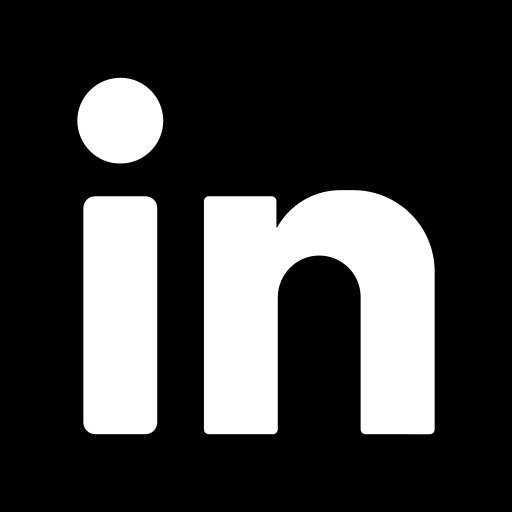
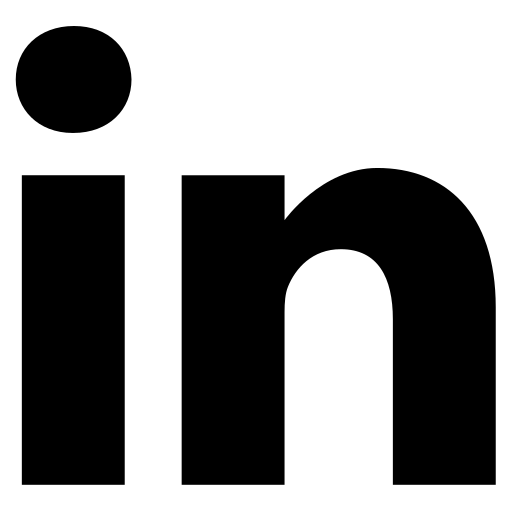
new timeline

diff --git a/src/App.js b/src/App.js
@@ -8,6 +8,7 @@ import {
 import "react-vertical-timeline-component/style.min.css";
 import { Navbar, NavItem, Nav, Button } from "react-bootstrap";
 import Table from "react-bootstrap/Table";
+import Tabs from "react-bootstrap/Tabs";
 import ProgressBar from "react-bootstrap/ProgressBar";
 
 function App() {
@@ -51,8 +52,7 @@ function App() {
 
               <h1>
                 My name is Cláudio and I'm an Outsystems Fullstack Developer
-                getting into the UX/UI environment, currently based in Lisbon,
-                Portugal.
+                with experience in UX/UI, currently based in Lisbon, Portugal.
               </h1>
               <h1>This is my website!</h1>
             </div>
@@ -71,17 +71,17 @@ function App() {
                 <p>
                   Graduated in <b>Computer Engineering</b> in 2017 and in the
                   process of finishing a Master's Degree in <b>Multimedia</b>.
-                  Designated by ISCTE as <b>ISTA Top Talent</b> in the 2018. I
-                  see myself as a
-                  <b>collaborative, easy to work with and efficient</b>{" "}
+                  Designated by ISCTE as <b>ISTA Top Talent</b> in 2018. I see
+                  myself as a
+                  <b> collaborative, easy to work with and efficient </b>
                   co-worker, who can get along very well and work in teams.
                   Always looking to
-                  <b>learn and improve</b> by absorving knowledge from everyone
+                  <b> learn and improve</b> by absorving knowledge from everyone
                   I get along with. Discovered the world of
-                  <b>User Experience</b> in the later days of my Bachelor's
-                  Degree and since then I've been aiming to enter into this
-                  universe. Always enjoyed{" "}
-                  <b>analysing the user and its interactions</b> in every
+                  <b> User Experience</b> in the later days of my Bachelor's
+                  Degree and since then I've been aiming to gain more experience
+                  in this universe. Always enjoyed
+                  <b> analysing the user and its interactions</b> in every
                   project I'm in. Currently employed as an Outsystems, Front-end
                   focused, Fullstack developer for CGI since March, 2019.
                 </p>
@@ -374,113 +374,136 @@ function App() {
                 <a className="anchor" id="work"></a>
                 <h2>Work</h2>
                 <p></p>
-
                 <div>
-                  <VerticalTimeline>
-                    <VerticalTimelineElement
-                      className="vertical-timeline-element--work"
-                      date="12/2019 - present"
-                    >
+                  <VerticalTimeline layout={"1-column"}>
+                    <VerticalTimelineElement className="vertical-timeline-element--work">
                       <h3 className="vertical-timeline-element-title">
-                        claudiolopes.pt : My own domain!
+                        Personal
                       </h3>
-                      <p>My personal domain with projects and information</p>
-                      <p>HTML, CSS, JavaScript, React</p>
-                      <p>Currently in development</p>
+                      <div className="subTimeline">
+                        <VerticalTimeline layout={"1-column"}>
+                          <VerticalTimelineElement
+                            className="vertical-timeline-element--work"
+                            date="12/2019 - present"
+                          >
+                            <h3 className="vertical-timeline-element-title">
+                              claudiolopes.pt : My own domain!
+                            </h3>
+                            <p>
+                              My personal domain with projects and information
+                            </p>
+                            <p>HTML, CSS, JavaScript, React</p>
+                            <p>Currently in development</p>
+                          </VerticalTimelineElement>
+                        </VerticalTimeline>
+                      </div>
                     </VerticalTimelineElement>
 
-                    <VerticalTimelineElement
-                      className="vertical-timeline-element--work"
-                      date="08/2019 - present"
-                    >
-                      <h3 className="vertical-timeline-element-title">
-                        Outsystems: EDPSU MerCom
-                      </h3>
-                      <h4 className="vertical-timeline-element-subtitle">
-                        CGI, Lisbon
-                      </h4>
-                      <p>
-                        Communication and case management for contact center
-                      </p>
-                      <p>Elitricity Market Values Manager</p>
-                      <p>Outsystems Service Studio, CSS, SQL</p>
-                      {/* A JSX comment 
-            <div>
-              <ModalCompnt ref={this.showModalRef}></ModalCompnt>
-              <a onClick={this.onShowModalClick}>Detalhes</a>
-            </div>*/}
+                    <VerticalTimelineElement className="vertical-timeline-element--work">
+                      <h3 className="vertical-timeline-element-title">CGI</h3>
+                      <div className="subTimeline">
+                        <VerticalTimeline layout={"1-column"}>
+                          <VerticalTimelineElement
+                            className="vertical-timeline-element--work"
+                            date="08/2019 - present"
+                          >
+                            <h3 className="vertical-timeline-element-title">
+                              Outsystems: EDPSU MerCom
+                            </h3>
+                            <h4 className="vertical-timeline-element-subtitle">
+                              CGI, Lisbon
+                            </h4>
+                            <p>
+                              Communication and case management for contact
+                              center
+                            </p>
+                            <p>Elitricity Market Values Manager</p>
+                            <p>Outsystems Service Studio, CSS, SQL</p>
+                          </VerticalTimelineElement>
+
+                          <VerticalTimelineElement
+                            className="vertical-timeline-element--work"
+                            date="04/2019 - 08/2019"
+                          >
+                            <h3 className="vertical-timeline-element-title">
+                              Outsystems: EDP Collect
+                            </h3>
+                            <h4 className="vertical-timeline-element-subtitle">
+                              CGI, Lisbon
+                            </h4>
+                            <p>Billing/payments manager</p>
+                            <p>Elitricity Market Values Manager</p>
+                            <p>Outsystems Service Studio, CSS, SQL</p>
+                          </VerticalTimelineElement>
+                        </VerticalTimeline>
+                      </div>
                     </VerticalTimelineElement>
 
-                    <VerticalTimelineElement
-                      className="vertical-timeline-element--work"
-                      date="04/2019 - 08/2019"
-                    >
+                    <VerticalTimelineElement className="vertical-timeline-element--work">
                       <h3 className="vertical-timeline-element-title">
-                        Outsystems: EDP Collect
+                        ISCTE-IUL
                       </h3>
-                      <h4 className="vertical-timeline-element-subtitle">
-                        CGI, Lisbon
-                      </h4>
-                      <p>Billing/payments manager</p>
-                      <p>Elitricity Market Values Manager</p>
-                      <p>Outsystems Service Studio, CSS, SQL</p>
-                    </VerticalTimelineElement>
+                      <div className="subTimeline">
+                        <VerticalTimeline layout={"1-column"}>
+                          <VerticalTimelineElement
+                            className="vertical-timeline-element--work"
+                            date="09/2018 - 12/2018"
+                          >
+                            <h3 className="vertical-timeline-element-title">
+                              Media Center Concept
+                            </h3>
+                            <h4 className="vertical-timeline-element-subtitle">
+                              ISCTE-IUL, Lisbon
+                            </h4>
+                            <p>3D Moddeling and printing </p>
+                            <p>Usabitlity testing</p>
+                            <p>User studying and targeting</p>
+                            <p>Low-Fy approach</p>
+                            <p>
+                              Solid Edge, Photoshop, Nielsen Heuristic, Adobe
+                              XD,{" "}
+                            </p>
+                          </VerticalTimelineElement>
 
-                    <VerticalTimelineElement
-                      className="vertical-timeline-element--work"
-                      date="09/2018 - 12/2018"
-                    >
-                      <h3 className="vertical-timeline-element-title">
-                        Media Center Concept
-                      </h3>
-                      <h4 className="vertical-timeline-element-subtitle">
-                        ISCTE-IUL, Lisbon
-                      </h4>
-                      <p>3D Moddeling and printing </p>
-                      <p>Usabitlity testing</p>
-                      <p>User studying and targeting</p>
-                      <p>Low-Fy approach</p>
-                      <p>
-                        Solid Edge, Photoshop, Nielsen Heuristic, Adobe XD,{" "}
-                      </p>
-                    </VerticalTimelineElement>
+                          <VerticalTimelineElement
+                            className="vertical-timeline-element--work"
+                            date="09/2018 - 12/2018"
+                          >
+                            <h3 className="vertical-timeline-element-title">
+                              Multi and Singleplayer Question Game
+                            </h3>
+                            <h4 className="vertical-timeline-element-subtitle">
+                              ISCTE-IUL, Lisbon
+                            </h4>
+                            <p>Android</p>
+                            <p>Java</p>
+                            <p>Photoshop</p>
+                            <p>Adobe XD</p>
+                            <p>Firebase</p>
+                          </VerticalTimelineElement>
 
-                    <VerticalTimelineElement
-                      className="vertical-timeline-element--work"
-                      date="09/2018 - 12/2018"
-                    >
-                      <h3 className="vertical-timeline-element-title">
-                        Multi and Singleplayer Question Game
-                      </h3>
-                      <h4 className="vertical-timeline-element-subtitle">
-                        ISCTE-IUL, Lisbon
-                      </h4>
-                      <p>Android</p>
-                      <p>Java</p>
-                      <p>Photoshop</p>
-                      <p>Adobe XD</p>
-                      <p>Firebase</p>
-                    </VerticalTimelineElement>
-
-                    <VerticalTimelineElement
-                      className="vertical-timeline-element--work"
-                      date="09/2017 - 12/2017"
-                    >
-                      <h3 className="vertical-timeline-element-title">
-                        'Reddit-like' website
-                      </h3>
-                      <h4 className="vertical-timeline-element-subtitle">
-                        ISCTE-IUL, Lisbon
-                      </h4>
-                      <p>HTML & CSS</p>
-                      <p>Python</p>
-                      <p>Balsamiq</p>
-                      <p>JavaScript</p>
-                      <p>
-                        Image, Video and/or text Posts, with accounts, comments
-                        and upvotes
-                      </p>
-                      <div id="modalComp"></div>
+                          <VerticalTimelineElement
+                            className="vertical-timeline-element--work"
+                            date="09/2017 - 12/2017"
+                          >
+                            <h3 className="vertical-timeline-element-title">
+                              'Reddit-like' website
+                            </h3>
+                            <h4 className="vertical-timeline-element-subtitle">
+                              ISCTE-IUL, Lisbon
+                            </h4>
+                            <p>HTML & CSS</p>
+                            <p>Python</p>
+                            <p>Balsamiq</p>
+                            <p>JavaScript</p>
+                            <p>
+                              Image, Video and/or text Posts, with accounts,
+                              comments and upvotes
+                            </p>
+                            <div id="modalComp"></div>
+                          </VerticalTimelineElement>
+                        </VerticalTimeline>
+                      </div>
                     </VerticalTimelineElement>
                   </VerticalTimeline>
                 </div>
@@ -514,7 +537,7 @@ function App() {
                         data-toggle="tooltip"
                         title="Download My Portfolio"
                         src="./files/portfolioCover.png"
-                        className="icon"
+                        className="icon image-cropper"
                       ></img>
                     </a>
                   </div>
@@ -523,7 +546,7 @@ function App() {
                       <img
                         data-toggle="tooltip"
                         title="Check My LinkedIn"
-                        src="./files/linkedin.png"
+                        src="./files/linkedin_round.png"
                         className="icon"
                       ></img>
                     </a>
@@ -552,9 +575,9 @@ function App() {
           <div className="row ">
             <div className="col-md-12">
               <div className="footer-content text-center">
-                <a href="#">
-                  Cláudio <span>Lopes</span>
-                </a>
+                <div>
+                  <img src="./files/icon_w.png" className="logo"></img>
+                </div>
                 <ul className="list-inline">
                   <li className="list-inline-item">
                     <a href="#">
@@ -584,9 +607,8 @@ function App() {
                 </ul>
                 <p className="footer-company-name">
                   All Rights Reserved. &copy; 2020
-                  <a href="#">Cláudio Lopes</a> Design By :
-                  <a href="">Cláudio Lopes</a>
-                  
+                  <a href="#"> Cláudio Lopes </a> Design By :
+                  <a href=""> Cláudio Lopes </a>
                 </p>
               </div>
             </div>

diff --git a/src/App.css b/src/App.css
@@ -169,15 +169,43 @@ a.anchor {
 .vertical-timeline-element-content {
   background: transparent;
   border-radius: 0px !important;
-  box-shadow: 0 6px 0 var(--primary-color) !important;
+  box-shadow: 0 0px 0 var(--primary-color) !important;
 }
 .vertical-timeline::before {
   background: var(--primary-color);
 }
-.vertical-timeline-element-content:hover {
+.subTimeline .vertical-timeline-element-content:hover {
   background: var(--primary-color-light);
   border-radius: 0px !important;
-  box-shadow: 0 6px 0 var(--primary-color-dark) !important;
+  box-shadow: 0 0px 0 var(--primary-color-dark) !important;
+}
+
+.vertical-timeline-element-icon {
+  top: 20px !important;
+}
+
+.vertical-timeline-element {
+  margin: 0em 0;
+}
+
+.subTimeline.vertical-timeline-element {
+  margin: 2em 0;
+}
+
+.subTimeline .vertical-timeline-element-icon {
+  width: 20px;
+  height: 20px;
+  box-shadow: 0 0 0 2px var(--primary-color), inset 0 1px 0 rgba(0, 0, 0, 0.08),
+    0 3px 0 2px rgba(0, 0, 0, 0.05) !important;
+}
+.subTimeline .vertical-timeline::before {
+  width: 0px;
+}
+.subTimeline .vertical-timeline {
+  left: -92px;
+}
+.subTimeline h3 {
+  font-size: 20px;
 }
 
 .rowSection {
@@ -239,9 +267,20 @@ html {
 }*/
 
 .icon {
-  max-height: 15%;
-  max-width: 15%;
+  max-height: 20%;
+  max-width: 20%;
   margin: 20px;
+}
+.logo {
+  max-height: 5%;
+  max-width: 5%;
+}
+
+.image-cropper {
+  border-radius: 50%;
+  border-style: solid;
+  border-width: 1.8px;
+  border-color: var(--primary-color);
 }
 
 /*tool tip*/
